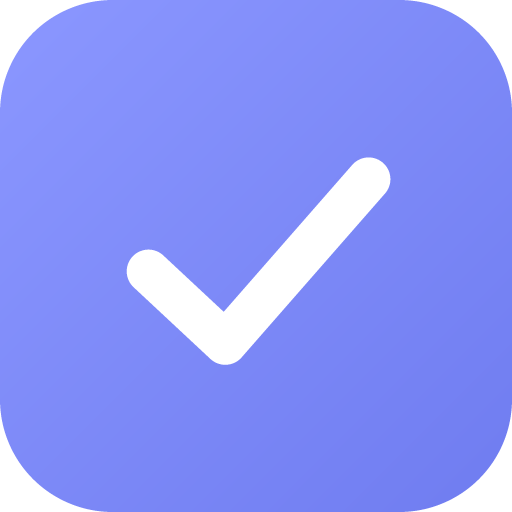
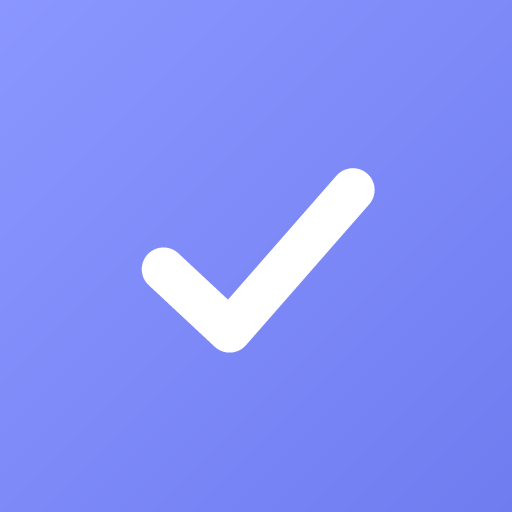
İkonlar: tam dolu 1024 px + macOS çift maske düzeltmesi

diff --git a/scripts/make-icons.js b/scripts/make-icons.js
@@ -160,9 +160,16 @@ function renderIcon(size, { rounded = true, scale = 1 } = {}) {
 mkdirSync(outDir, { recursive: true });
 
 const outputs = [
+  // Sekme ikonu: küçük boyutta yuvarlak köşe daha okunaklı.
   { file: "favicon-32.png", size: 32, rounded: true, scale: 1 },
-  { file: "icon-192.png", size: 192, rounded: true, scale: 1 },
-  { file: "icon-512.png", size: 512, rounded: true, scale: 1 },
+  // Uygulama ikonları: TAM DOLU (köşe yuvarlatması yok).
+  // Neden? macOS/iOS/Android ikonu kendi maskeleriyle yuvarlıyor.
+  // Biz de yuvarlarsak "çift maske" olur ve platform ikonu büyütüp kırpar;
+  // tik olduğundan büyük ve kenara yakın görünür.
+  { file: "icon-192.png", size: 192, rounded: false, scale: 0.86 },
+  { file: "icon-512.png", size: 512, rounded: false, scale: 0.86 },
+  // Retina Dock/Launchpad 1024 px'e kadar kaynak ister; yoksa 512'yi büyütüp bulanıklaştırır.
+  { file: "icon-1024.png", size: 1024, rounded: false, scale: 0.86 },
   // Maskable: platform kendi maskesini uygular → tam dolu zemin + güvenli alan.
   { file: "icon-maskable-512.png", size: 512, rounded: false, scale: 0.78 },
   // iOS kendi köşe maskesini uygular → tam dolu zemin.

diff --git a/sw.js b/sw.js
@@ -8,7 +8,7 @@
 // API istekleri (/api/...) ASLA önbelleklenmez: kullanıcı verisi bayat olmamalı.
 // Veri için sunucu gerekir; uygulama bunu ekranda açıkça söyler.
 
-const VERSION = "v2";
+const VERSION = "v3";
 const CACHE = `ht-shell-${VERSION}`;
 
 const PRECACHE = [
